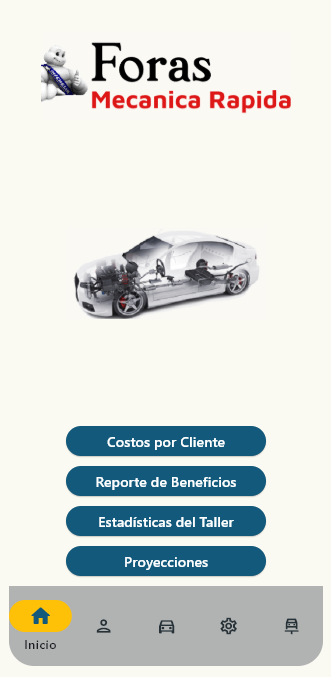
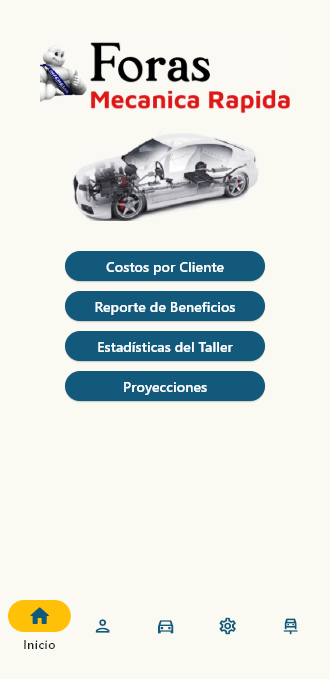
changes in the design of the navigation bar / cambios en el diseño de la barra de navegacion

diff --git a/app.py b/app.py
@@ -73,12 +73,12 @@ class VentanaInicio(ft.View):
                 image_src="/ImagenVehiculo.png",
                 image_fit=ft.ImageFit.COVER,
             ),
-            expand=True,
+            expand=False,
             alignment=ft.alignment.Alignment(x=0, y=0)
         )
 
         # Boton para acceder al análisis de costos por cliente.
-        self.boton_clientes = ft.Container(
+        self.boton_CostoPorCliente = ft.Container(
             ft.ElevatedButton(
                 text="Costos por Cliente",
                 color="white",
@@ -93,7 +93,7 @@ class VentanaInicio(ft.View):
         )
 
         # Boton para acceder a consultar los beneficios del taller.
-        self.boton_vehiculos = ft.Container(
+        self.boton_ReporteBeneficios = ft.Container(
             ft.ElevatedButton(
                 text="Reporte de Beneficios",
                 color="white",
@@ -109,7 +109,7 @@ class VentanaInicio(ft.View):
         )
 
         # Boton para acceder al analisis del uso y desempeño general del taller
-        self.boton_recambios = ft.Container(
+        self.boton_EstadisticasTaller = ft.Container(
             ft.ElevatedButton(
                 text="Estadísticas del Taller",
                 color="white",
@@ -124,7 +124,7 @@ class VentanaInicio(ft.View):
         )
 
         # Boton para acceder a proyecciones y análisis futuros
-        self.boton_ingresos = ft.Container(
+        self.boton_Proyecciones = ft.Container(
             ft.ElevatedButton(
                 text="Proyecciones",
                 color="white",
@@ -138,6 +138,10 @@ class VentanaInicio(ft.View):
             alignment=ft.alignment.Alignment(x=0, y=0)
         )
 
+        self.contenedor_vacio = ft.Container(
+            expand= True
+        )
+
         # Barra de navegacion
         self.barraNavegacion = ft.NavigationBar(
             selected_index=0,
@@ -146,7 +150,7 @@ class VentanaInicio(ft.View):
                 ft.NavigationBarDestination(
                     icon_content=ft.Icon(
                         name=ft.icons.HOME_OUTLINED,
-                        color=ft.colors.GREY_900,
+                        color="#12597b",
                         size=20  # Ajusta el tamaño del ícono no seleccionado
                     ),
                     selected_icon_content=ft.Icon(
@@ -159,7 +163,7 @@ class VentanaInicio(ft.View):
                 ft.NavigationBarDestination(
                     icon_content=ft.Icon(
                         name=ft.icons.PERSON_OUTLINED,
-                        color=ft.colors.BLUE_GREY_900,
+                        color="#12597b",
                         size=20
                     ),
                     selected_icon_content=ft.Icon(
@@ -173,7 +177,7 @@ class VentanaInicio(ft.View):
                 ft.NavigationBarDestination(
                     icon_content=ft.Icon(
                         name=ft.icons.DIRECTIONS_CAR_OUTLINED,
-                        color=ft.colors.BLUE_GREY_900,
+                        color="#12597b",
                         size=20
                     ),
                     selected_icon_content=ft.Icon(
@@ -186,7 +190,7 @@ class VentanaInicio(ft.View):
                 ft.NavigationBarDestination(
                     icon_content=ft.Icon(
                         name=ft.icons.SETTINGS_OUTLINED,
-                        color=ft.colors.BLUE_GREY_900,
+                        color="#12597b",
                         size=20
                     ),
                     selected_icon_content=ft.Icon(
@@ -199,7 +203,7 @@ class VentanaInicio(ft.View):
                 ft.NavigationBarDestination(
                     icon_content=ft.Icon(
                         name=ft.icons.CAR_REPAIR_OUTLINED,
-                        color=ft.colors.BLUE_GREY_900,
+                        color="#12597b",
                         size=20
                     ),
                     selected_icon_content=ft.Icon(
@@ -210,9 +214,9 @@ class VentanaInicio(ft.View):
                     label="Ingreso",
                 )
             ],
-            bgcolor=ft.colors.GREY_400,  # Color de fondo de la barra de navegación (azul oscuro)
+            bgcolor="#FAFAF3",  # Color de fondo de la barra de navegación (azul oscuro)
             indicator_color=ft.colors.AMBER_500,  # Color del indicador del destino seleccionado (ámbar)
-            surface_tint_color=ft.colors.BLUE_GREY_900,  # Color de superficie para el material (cyan claro)
+            surface_tint_color="#FAFAF3",  # Color de superficie para el material (cyan claro)
             label_behavior=ft.NavigationBarLabelBehavior.ONLY_SHOW_SELECTED  # Mostrar la etiqueta  seleccionada
         )
 
@@ -222,13 +226,14 @@ class VentanaInicio(ft.View):
                 ft.Column([
                     ft.Divider(height=10, color="transparent"),
                     self.logo,
-                    ft.Divider(height=10, color="transparent"),
+                    #ft.Divider(height=10, color="transparent"),
                     self.ImagenVehiculo, ft.Divider(height=10, color="transparent"),
                     # ft.Divider(height=10, color="#E0E0E0"),
-                    self.boton_clientes,
-                    self.boton_vehiculos,
-                    self.boton_recambios,
-                    self.boton_ingresos,
+                    self.boton_CostoPorCliente,
+                    self.boton_ReporteBeneficios,
+                    self.boton_EstadisticasTaller,
+                    self.boton_Proyecciones,
+                    self.contenedor_vacio,
                     self.barraNavegacion,
                 ]
                 ),
@@ -337,7 +342,7 @@ class VentanaCliente(ft.View):
                 ft.NavigationBarDestination(
                     icon_content=ft.Icon(
                         name=ft.icons.HOME_OUTLINED,
-                        color=ft.colors.GREY_900,
+                        color="#12597b",
                         size=20  # Ajusta el tamaño del ícono no seleccionado
                     ),
                     selected_icon_content=ft.Icon(
@@ -350,7 +355,7 @@ class VentanaCliente(ft.View):
                 ft.NavigationBarDestination(
                     icon_content=ft.Icon(
                         name=ft.icons.PERSON_OUTLINED,
-                        color=ft.colors.BLUE_GREY_900,
+                        color="#12597b",
                         size=20
                     ),
                     selected_icon_content=ft.Icon(
@@ -364,7 +369,7 @@ class VentanaCliente(ft.View):
                 ft.NavigationBarDestination(
                     icon_content=ft.Icon(
                         name=ft.icons.DIRECTIONS_CAR_OUTLINED,
-                        color=ft.colors.BLUE_GREY_900,
+                        color="#12597b",
                         size=20
                     ),
                     selected_icon_content=ft.Icon(
@@ -377,7 +382,7 @@ class VentanaCliente(ft.View):
                 ft.NavigationBarDestination(
                     icon_content=ft.Icon(
                         name=ft.icons.SETTINGS_OUTLINED,
-                        color=ft.colors.BLUE_GREY_900,
+                        color="#12597b",
                         size=20
                     ),
                     selected_icon_content=ft.Icon(
@@ -390,7 +395,7 @@ class VentanaCliente(ft.View):
                 ft.NavigationBarDestination(
                     icon_content=ft.Icon(
                         name=ft.icons.CAR_REPAIR_OUTLINED,
-                        color=ft.colors.BLUE_GREY_900,
+                        color="#12597b",
                         size=20
                     ),
                     selected_icon_content=ft.Icon(
@@ -401,9 +406,9 @@ class VentanaCliente(ft.View):
                     label="Ingreso",
                 )
             ],
-            bgcolor=ft.colors.GREY_400,  # Color de fondo de la barra de navegación (azul oscuro)
+            bgcolor="#FAFAF3",  # Color de fondo de la barra de navegación (azul oscuro)
             indicator_color=ft.colors.AMBER_500,  # Color del indicador del destino seleccionado (ámbar)
-            surface_tint_color=ft.colors.BLUE_GREY_900,  # Color de superficie para el material (cyan claro)
+            surface_tint_color="#FAFAF3",  # Color de superficie para el material (cyan claro)
             label_behavior=ft.NavigationBarLabelBehavior.ONLY_SHOW_SELECTED  # Mostrar la etiqueta  seleccionada
         )
 
@@ -801,7 +806,7 @@ class VentanaVehiculo(ft.View):
                 ft.NavigationBarDestination(
                     icon_content=ft.Icon(
                         name=ft.icons.HOME_OUTLINED,
-                        color=ft.colors.GREY_900,
+                        color="#12597b",
                         size=20  # Ajusta el tamaño del ícono no seleccionado
                     ),
                     selected_icon_content=ft.Icon(
@@ -814,7 +819,7 @@ class VentanaVehiculo(ft.View):
                 ft.NavigationBarDestination(
                     icon_content=ft.Icon(
                         name=ft.icons.PERSON_OUTLINED,
-                        color=ft.colors.BLUE_GREY_900,
+                        color="#12597b",
                         size=20
                     ),
                     selected_icon_content=ft.Icon(
@@ -828,7 +833,7 @@ class VentanaVehiculo(ft.View):
                 ft.NavigationBarDestination(
                     icon_content=ft.Icon(
                         name=ft.icons.DIRECTIONS_CAR_OUTLINED,
-                        color=ft.colors.BLUE_GREY_900,
+                        color="#12597b",
                         size=20
                     ),
                     selected_icon_content=ft.Icon(
@@ -841,7 +846,7 @@ class VentanaVehiculo(ft.View):
                 ft.NavigationBarDestination(
                     icon_content=ft.Icon(
                         name=ft.icons.SETTINGS_OUTLINED,
-                        color=ft.colors.BLUE_GREY_900,
+                        color="#12597b",
                         size=20
                     ),
                     selected_icon_content=ft.Icon(
@@ -854,7 +859,7 @@ class VentanaVehiculo(ft.View):
                 ft.NavigationBarDestination(
                     icon_content=ft.Icon(
                         name=ft.icons.CAR_REPAIR_OUTLINED,
-                        color=ft.colors.BLUE_GREY_900,
+                        color="#12597b",
                         size=20
                     ),
                     selected_icon_content=ft.Icon(
@@ -865,9 +870,9 @@ class VentanaVehiculo(ft.View):
                     label="Ingreso",
                 )
             ],
-            bgcolor=ft.colors.GREY_400,  # Color de fondo de la barra de navegación (azul oscuro)
+            bgcolor="#FAFAF3",  # Color de fondo de la barra de navegación (azul oscuro)
             indicator_color=ft.colors.AMBER_500,  # Color del indicador del destino seleccionado (ámbar)
-            surface_tint_color=ft.colors.BLUE_GREY_900,  # Color de superficie para el material (cyan claro)
+            surface_tint_color="#FAFAF3",  # Color de superficie para el material (cyan claro)
             label_behavior=ft.NavigationBarLabelBehavior.ONLY_SHOW_SELECTED  # Mostrar la etiqueta  seleccionada
         )
 
@@ -1001,7 +1006,7 @@ class VentanaRecambios(ft.View):
                 ft.NavigationBarDestination(
                     icon_content=ft.Icon(
                         name=ft.icons.HOME_OUTLINED,
-                        color=ft.colors.GREY_900,
+                        color="#12597b",
                         size=20  # Ajusta el tamaño del ícono no seleccionado
                     ),
                     selected_icon_content=ft.Icon(
@@ -1014,7 +1019,7 @@ class VentanaRecambios(ft.View):
                 ft.NavigationBarDestination(
                     icon_content=ft.Icon(
                         name=ft.icons.PERSON_OUTLINED,
-                        color=ft.colors.BLUE_GREY_900,
+                        color="#12597b",
                         size=20
                     ),
                     selected_icon_content=ft.Icon(
@@ -1028,7 +1033,7 @@ class VentanaRecambios(ft.View):
                 ft.NavigationBarDestination(
                     icon_content=ft.Icon(
                         name=ft.icons.DIRECTIONS_CAR_OUTLINED,
-                        color=ft.colors.BLUE_GREY_900,
+                        color="#12597b",
                         size=20
                     ),
                     selected_icon_content=ft.Icon(
@@ -1041,7 +1046,7 @@ class VentanaRecambios(ft.View):
                 ft.NavigationBarDestination(
                     icon_content=ft.Icon(
                         name=ft.icons.SETTINGS_OUTLINED,
-                        color=ft.colors.BLUE_GREY_900,
+                        color="#12597b",
                         size=20
                     ),
                     selected_icon_content=ft.Icon(
@@ -1054,7 +1059,7 @@ class VentanaRecambios(ft.View):
                 ft.NavigationBarDestination(
                     icon_content=ft.Icon(
                         name=ft.icons.CAR_REPAIR_OUTLINED,
-                        color=ft.colors.BLUE_GREY_900,
+                        color="#12597b",
                         size=20
                     ),
                     selected_icon_content=ft.Icon(
@@ -1065,9 +1070,9 @@ class VentanaRecambios(ft.View):
                     label="Ingreso",
                 )
             ],
-            bgcolor=ft.colors.GREY_400,  # Color de fondo de la barra de navegación (azul oscuro)
+            bgcolor="#FAFAF3",  # Color de fondo de la barra de navegación (azul oscuro)
             indicator_color=ft.colors.AMBER_500,  # Color del indicador del destino seleccionado (ámbar)
-            surface_tint_color=ft.colors.BLUE_GREY_900,  # Color de superficie para el material (cyan claro)
+            surface_tint_color="#FAFAF3",  # Color de superficie para el material (cyan claro)
             label_behavior=ft.NavigationBarLabelBehavior.ONLY_SHOW_SELECTED  # Mostrar la etiqueta  seleccionada
         )
 
@@ -1111,19 +1116,25 @@ class VentanaRecambios(ft.View):
 
 
 class VentanaIngreso(ft.View):
-    '''Clase VentanaIngreso: Interfaz para ventana de ingresos.
+    '''Clase VentanaIngreso: Interfaz gráfica para la gestión de ingresos de vehículos al taller.
+
+    Esta clase representa la ventana de la aplicación dedicada a la gestión de ingresos, permitiendo
+    al usuario registrar, buscar, modificar y eliminar los ingresos de vehículos en el taller.
 
     Args:
-        - page: Instancia de la pagina actual.
+        - page: Instancia de la página actual, que gestiona el contenido y las interacciones de la ventana.
 
     Contiene:
-        - Imagen de diagnostico de ingresos como titulo.
-        - Input para ingresar busqueda.
-        - Boton ElevatedButton: para activar la busqueda.
-        - Boton ElevatedButton: para añadir ingreso nuevo.
-        - Boton ElevatedButton: para modificar ingreso.
-        - Boton ElevatedButton: para eliminar ingreso.
-        '''
+        - Imagen de diagnóstico de ingresos como título: Identifica la sección de ingresos con una imagen adecuada.
+        - Input: Campo de texto para buscar ingresos por criterios como fecha, matrícula del vehículo o diagnóstico.
+        - Botón ElevatedButton "Buscar Ingreso": Activa la búsqueda de ingresos basados en los datos ingresados.
+        - Botón ElevatedButton "Añadir Ingreso": Permite añadir un nuevo registro de ingreso de un vehículo al taller,
+          incluyendo detalles como fecha, avería reportada y diagnóstico.
+        - Botón ElevatedButton "Modificar Ingreso": Accede a una interfaz para modificar los detalles de un ingreso
+          ya registrado.
+        - Botón ElevatedButton "Eliminar Ingreso": Elimina del sistema el ingreso seleccionado.
+    '''
+
 
     def __init__(self, page: ft.Page):
         '''Constructor de la interfaz grafica para la ventana Ingresos'''
@@ -1193,7 +1204,7 @@ class VentanaIngreso(ft.View):
                 ft.NavigationBarDestination(
                     icon_content=ft.Icon(
                         name=ft.icons.HOME_OUTLINED,
-                        color=ft.colors.GREY_900,
+                        color="#12597b",
                         size=20  # Ajusta el tamaño del ícono no seleccionado
                     ),
                     selected_icon_content=ft.Icon(
@@ -1206,7 +1217,7 @@ class VentanaIngreso(ft.View):
                 ft.NavigationBarDestination(
                     icon_content=ft.Icon(
                         name=ft.icons.PERSON_OUTLINED,
-                        color=ft.colors.BLUE_GREY_900,
+                        color="#12597b",
                         size=20
                     ),
                     selected_icon_content=ft.Icon(
@@ -1220,7 +1231,7 @@ class VentanaIngreso(ft.View):
                 ft.NavigationBarDestination(
                     icon_content=ft.Icon(
                         name=ft.icons.DIRECTIONS_CAR_OUTLINED,
-                        color=ft.colors.BLUE_GREY_900,
+                        color="#12597b",
                         size=20
                     ),
                     selected_icon_content=ft.Icon(
@@ -1233,7 +1244,7 @@ class VentanaIngreso(ft.View):
                 ft.NavigationBarDestination(
                     icon_content=ft.Icon(
                         name=ft.icons.SETTINGS_OUTLINED,
-                        color=ft.colors.BLUE_GREY_900,
+                        color="#12597b",
                         size=20
                     ),
                     selected_icon_content=ft.Icon(
@@ -1246,7 +1257,7 @@ class VentanaIngreso(ft.View):
                 ft.NavigationBarDestination(
                     icon_content=ft.Icon(
                         name=ft.icons.CAR_REPAIR_OUTLINED,
-                        color=ft.colors.BLUE_GREY_900,
+                        color="#12597b",
                         size=20
                     ),
                     selected_icon_content=ft.Icon(
@@ -1257,9 +1268,9 @@ class VentanaIngreso(ft.View):
                     label="Ingreso",
                 )
             ],
-            bgcolor=ft.colors.GREY_400,  # Color de fondo de la barra de navegación (azul oscuro)
+            bgcolor="#FAFAF3",  # Color de fondo de la barra de navegación (azul oscuro)
             indicator_color=ft.colors.AMBER_500,  # Color del indicador del destino seleccionado (ámbar)
-            surface_tint_color=ft.colors.BLUE_GREY_900,  # Color de superficie para el material (cyan claro)
+            surface_tint_color="#FAFAF3",  # Color de superficie para el material (cyan claro)
             label_behavior=ft.NavigationBarLabelBehavior.ONLY_SHOW_SELECTED  # Mostrar la etiqueta  seleccionada
         )
 
